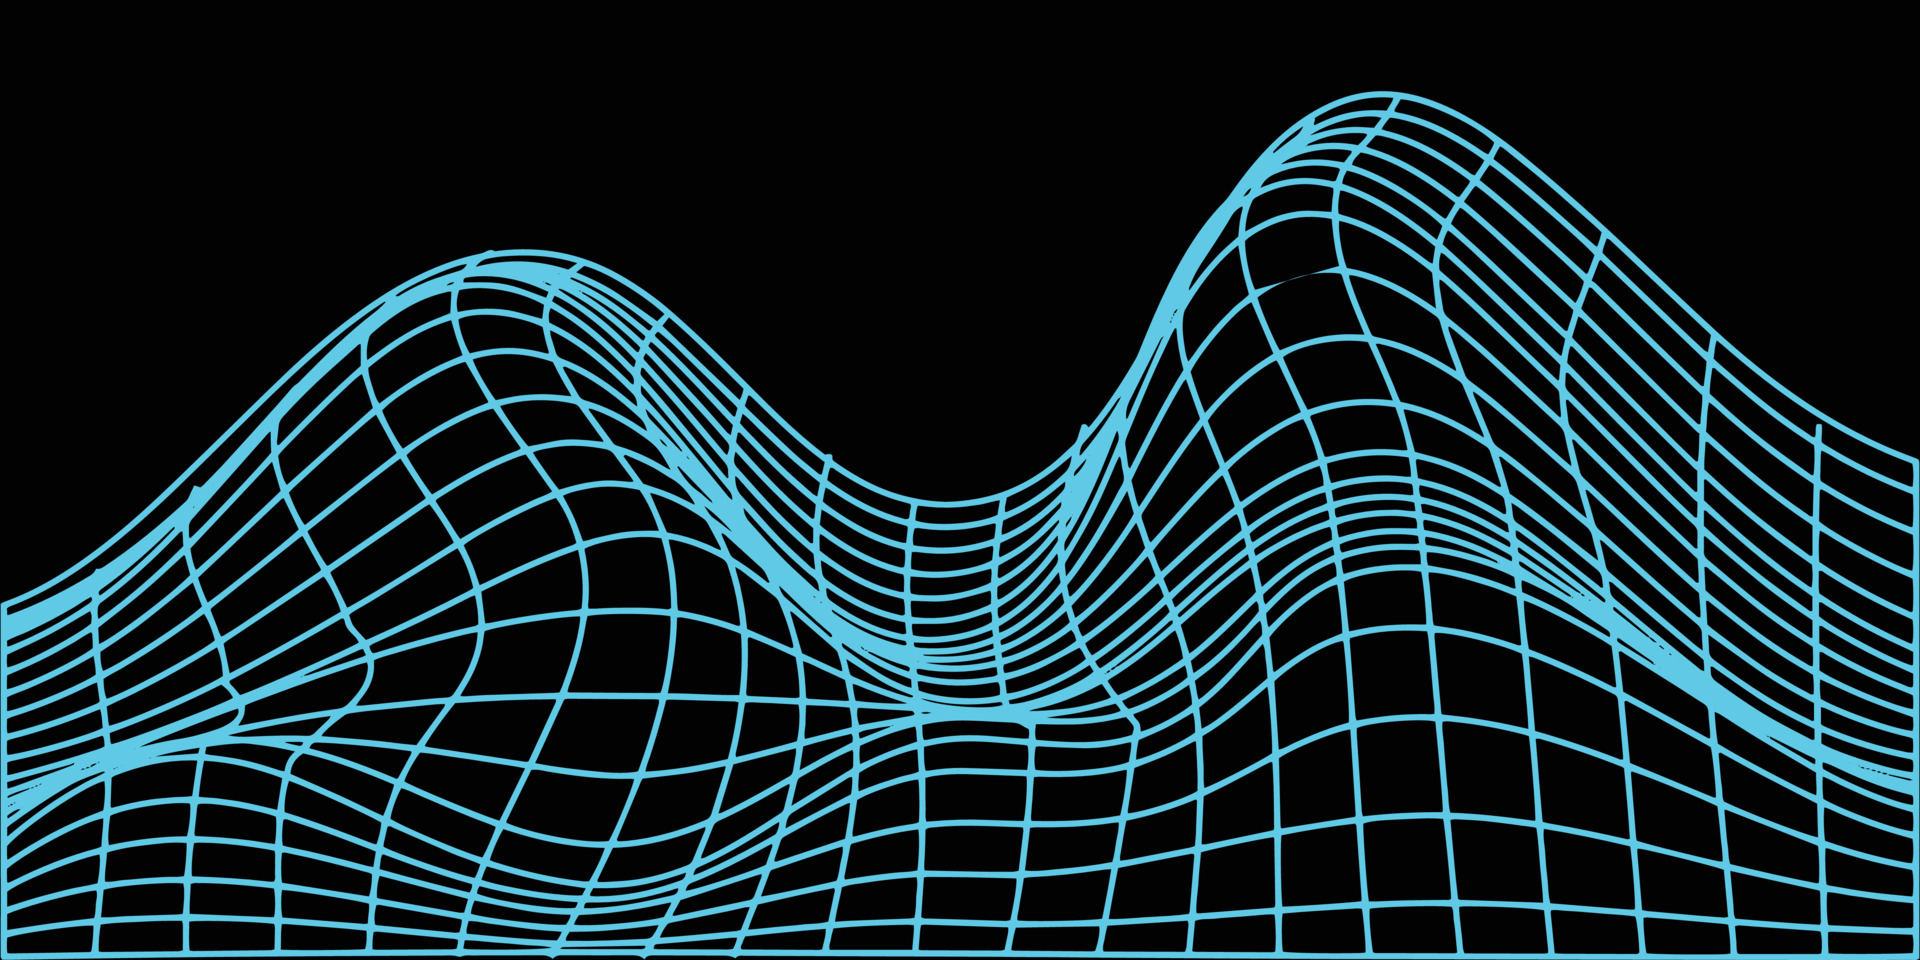
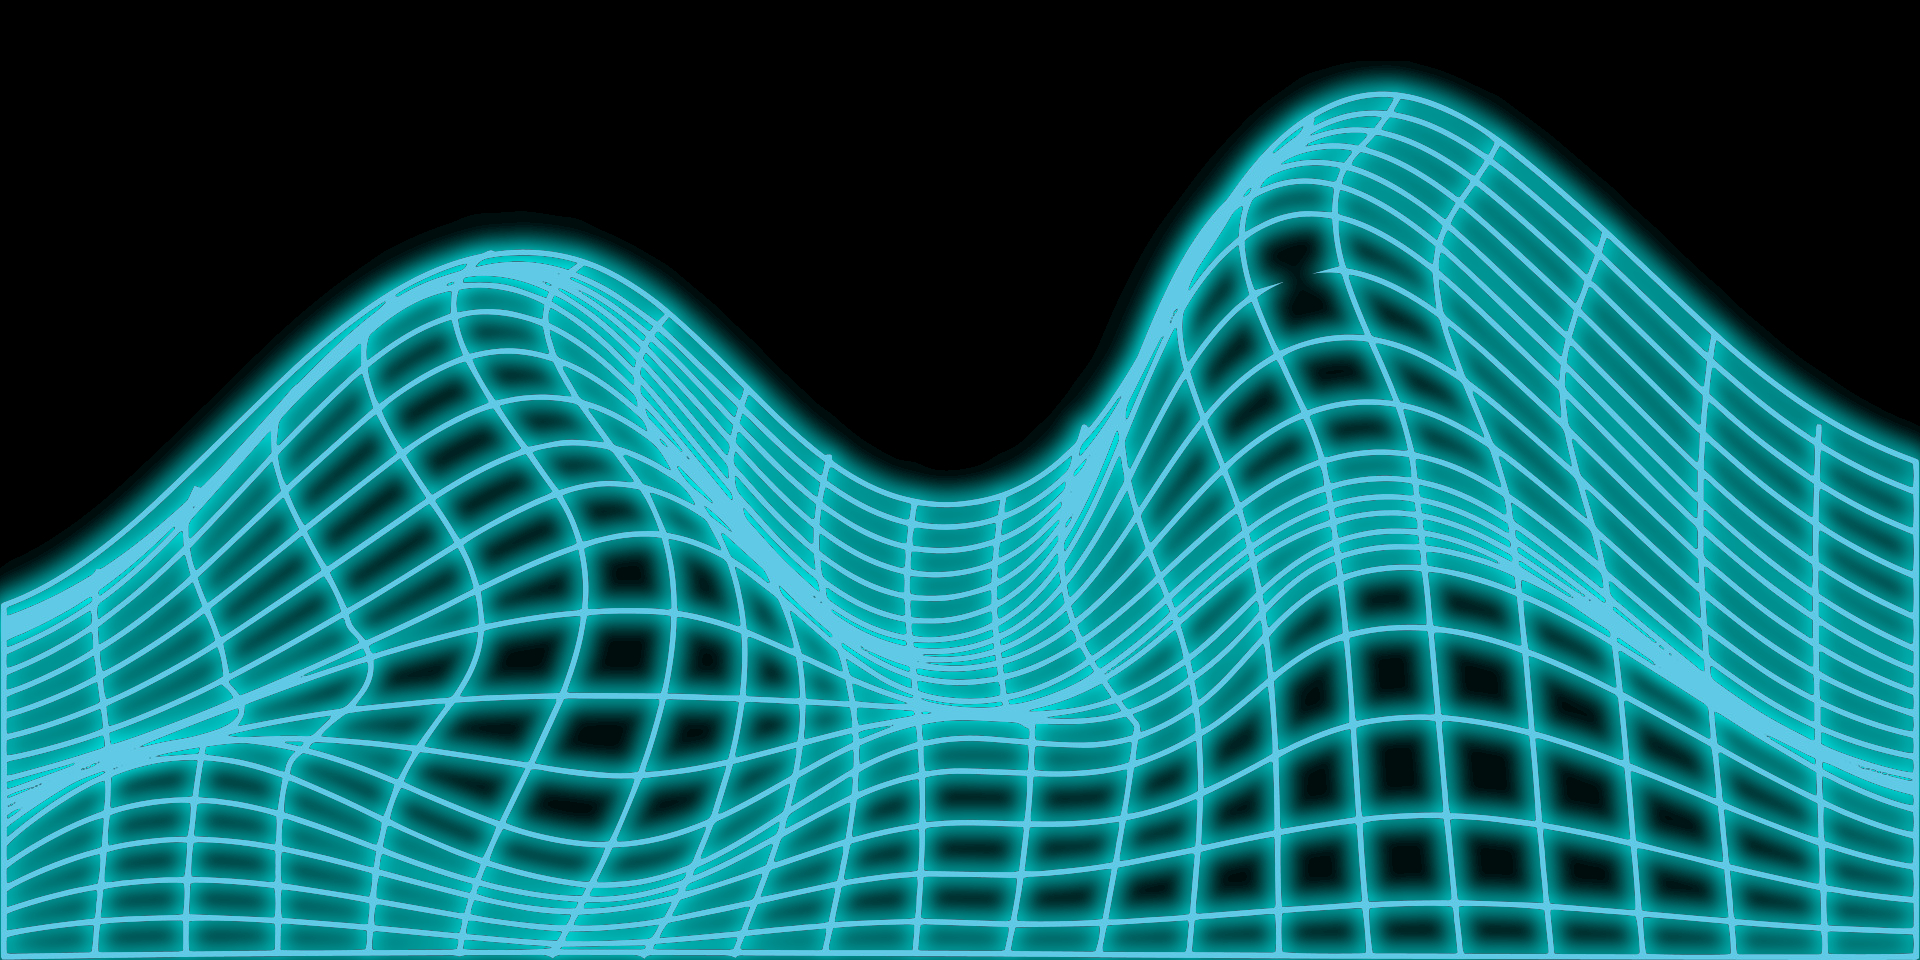
background glow

diff --git a/index.html b/index.html
@@ -22,13 +22,19 @@
       <i class="fa fa-gamepad" id="retro"></i>
     </div>
     <script>
-      $("#boat").click(function() {
-        $("#style").attr("href", "style_boat.css");
-        $(".bookend").removeClass("fa-anchor fa-gamepad").addClass("fa-anchor");
-      });
-      $("#retro").click(function() {
-        $("#style").attr("href", "style_retro.css");
-        $(".bookend").removeClass("fa-anchor fa-gamepad").addClass("fa-gamepad");
+      $( document ).ready(function() {
+        $("#boat").click(function() {
+          $("#style").attr("href", "style_boat.css");
+          $(".container").css("visibility", "hidden");
+          $(".bookend").removeClass("fa-anchor fa-gamepad").addClass("fa-anchor");
+          $(".container").fadeTo(20,0).css("visibility", "visible").fadeTo(1000,1);
+        });
+        $("#retro").click(function() {
+          $("#style").attr("href", "style_retro.css");
+          $(".container").css("visibility", "hidden");
+          $(".bookend").removeClass("fa-anchor fa-gamepad").addClass("fa-gamepad");
+          $(".container").fadeTo(20,0).css("visibility", "visible").fadeTo(1000,1);
+        });
       });
     </script>
   </body>

diff --git a/style_retro.css b/style_retro.css
@@ -1,14 +1,10 @@
 @import url('https://fonts.googleapis.com/css2?family=Monoton&family=Permanent+Marker&family=Press+Start+2P&display=swap');
-@-webkit-keyframes show {
-  0% { opacity: 0; }
-  100% { opacity: 1; }
-}
 body {
+  background-color: black;
   background: url('background_retro.jpeg');
   background-repeat: no-repeat;
-  background-size: auto;
+  background-size: cover;
   background-position: center;
-  -webkit-animation: show 2s 1;
 }
 .spacer {
   height: 50px;

diff --git a/style_boat.css b/style_boat.css
@@ -4,11 +4,12 @@
   100% { opacity: 1; }
 }
 body {
+  background-color: black;
   background: url('background_boat.jpeg');
   background-repeat: no-repeat;
-  background-size: auto;
+  background-size: cover;
   background-position: center;
-  -webkit-animation: show 2s 1;
+  -webkit-animation: show 1s 1;
 }
 .spacer {
   height: 150px;
